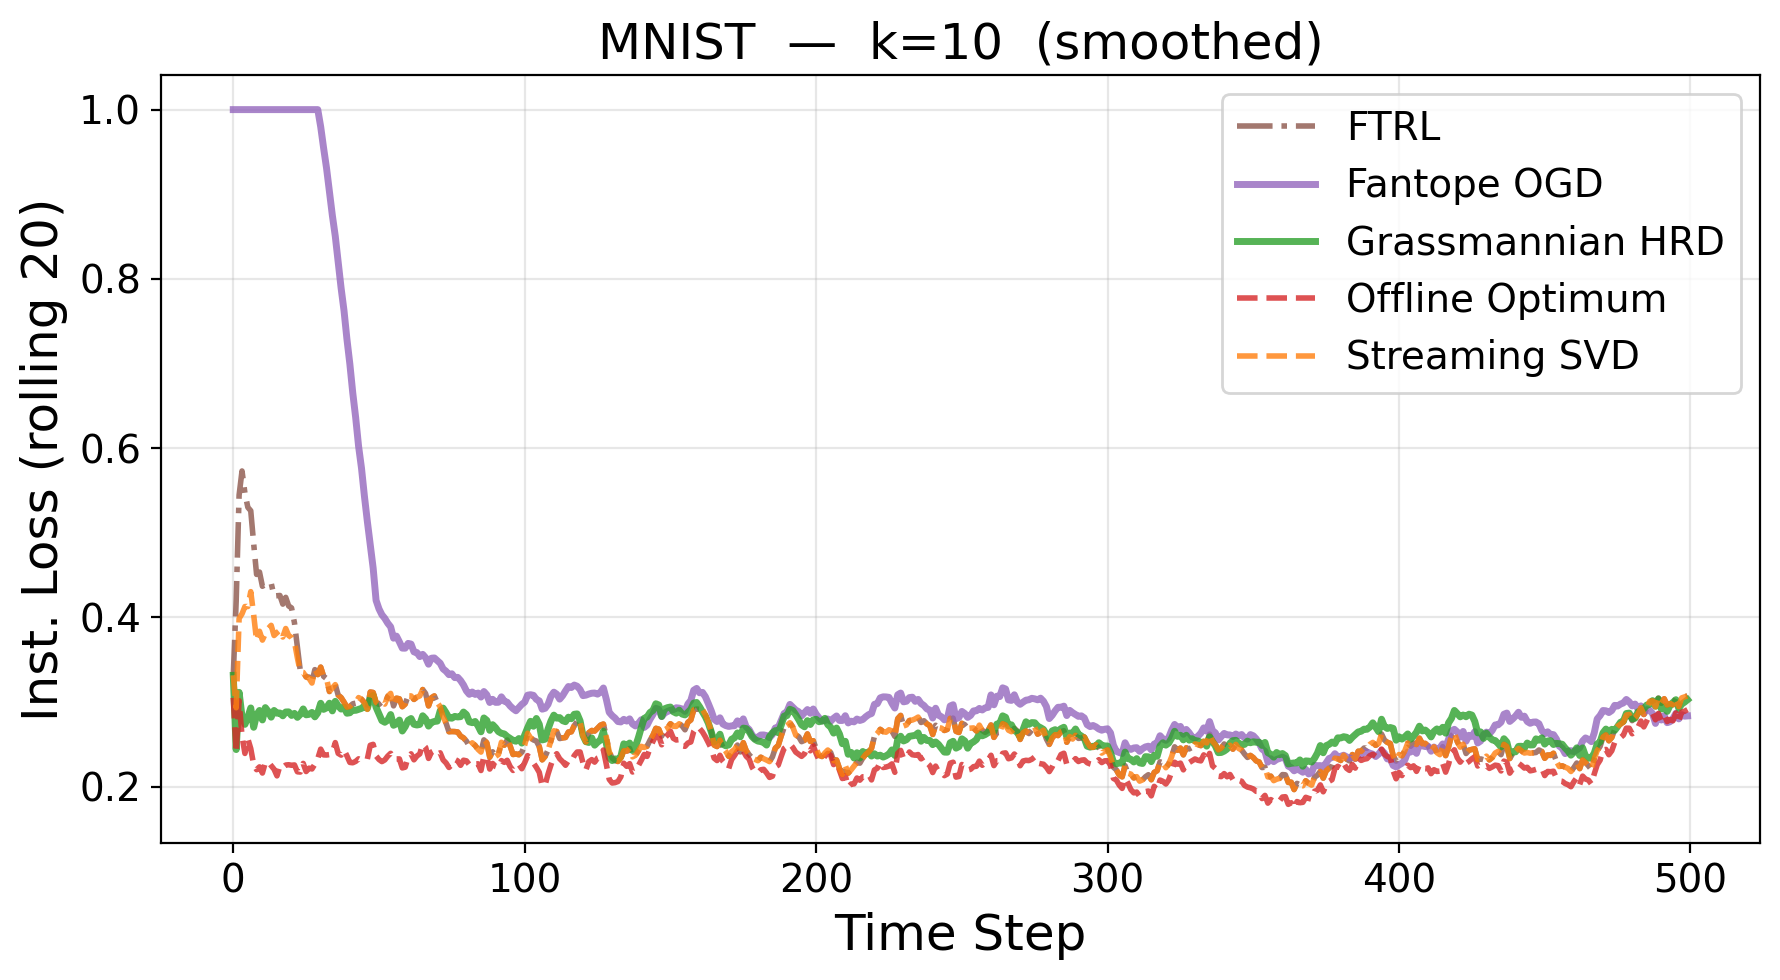
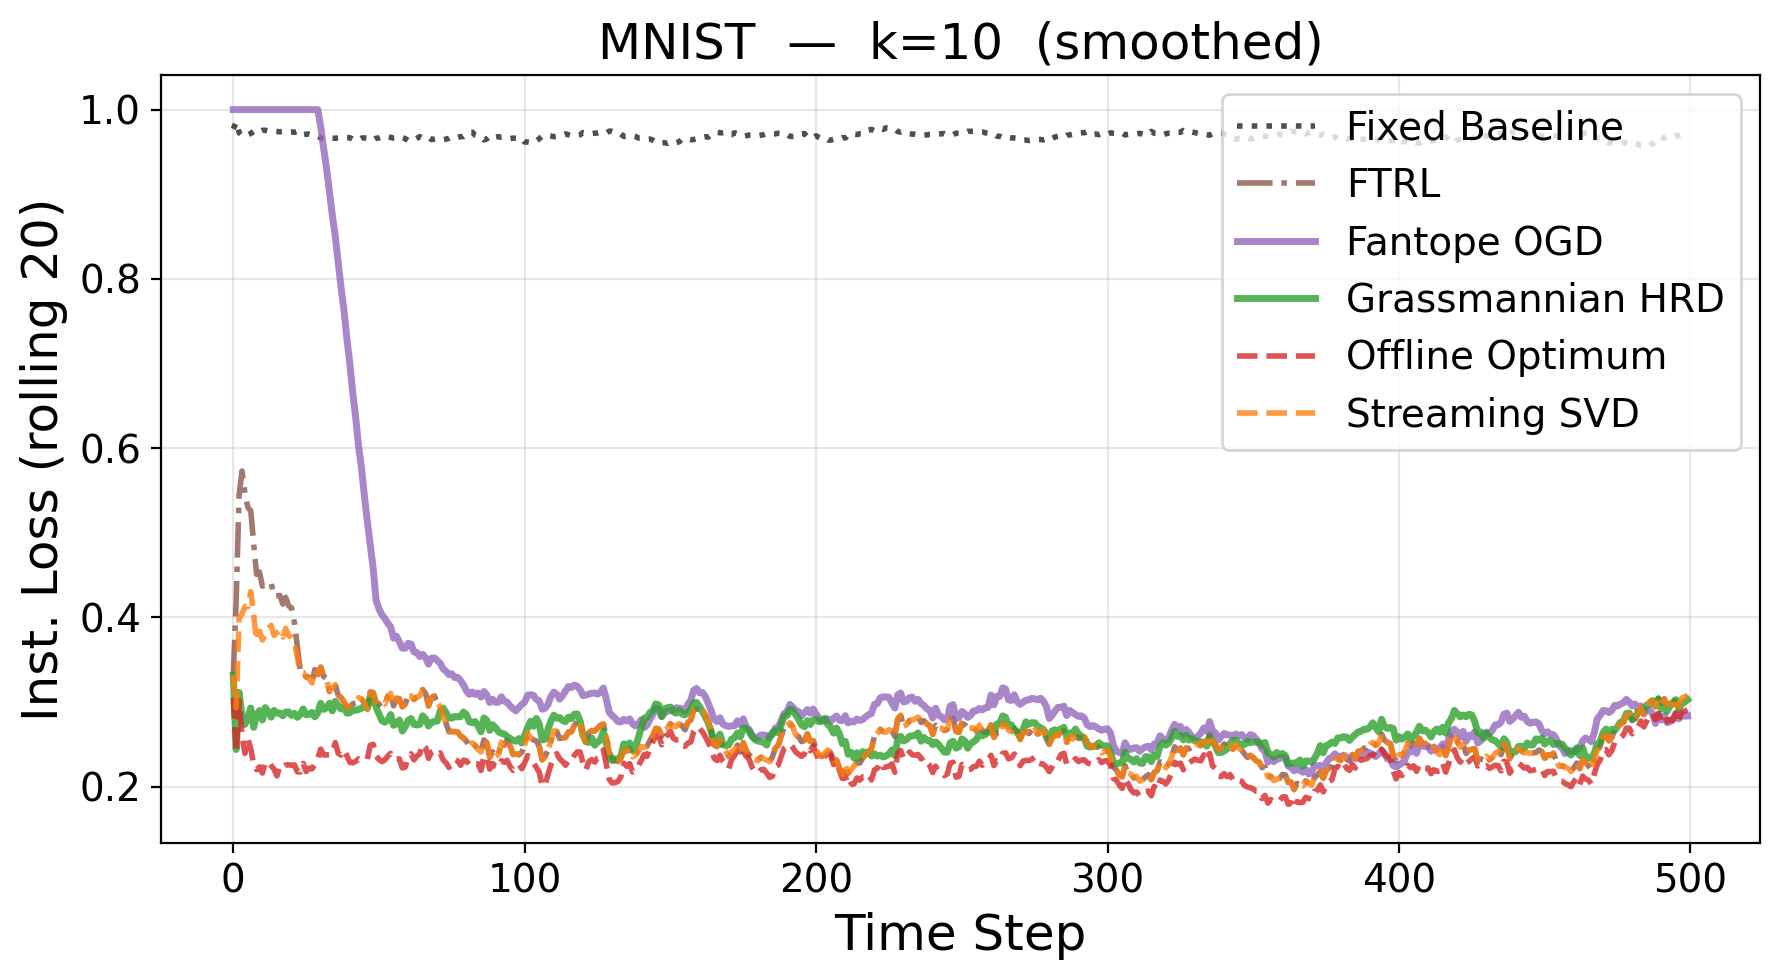
Add BadNet fixed baseline to experiments and plots

Changed region(s): [[0.6798, 0.0918, 0.9579, 0.4592], [0.6798, 0.1837, 0.7416, 0.2143], [0.9579, 0.398, 0.9888, 0.4286]]

diff --git a/New Experiments/plot_results.py b/New Experiments/plot_results.py
@@ -38,7 +38,7 @@ ALG_STYLE = {
     "OfflineOptimum":{"color": "#d62728", "lw": 2.0, "ls": "--",  "label": "Offline Optimum"},
     "StreamingSVD":  {"color": "#ff7f0e", "lw": 2.0, "ls": "--",  "label": "Streaming SVD"},
     "FTRL":          {"color": "#8c564b", "lw": 2.0, "ls": "-.",  "label": "FTRL"},
-    "BadNet":        {"color": "#7f7f7f", "lw": 1.5, "ls": ":",   "label": "Fixed Baseline"},
+    "BadNet":        {"color": "#222222", "lw": 2.0, "ls": ":",   "label": "Fixed Baseline"},
 }
 
 

diff --git a/New Experiments/run_experiment.py b/New Experiments/run_experiment.py
@@ -307,7 +307,7 @@ def run_experiments(
                 dk.setdefault("T", cfg.get("T", 1000))
                 dk.setdefault("d", cfg.get("d", 5))
             X, meta = load_dataset(ds, **dk)
-            print(f"  → {X.shape[0]} samples × {X.shape[1]} features")
+            print(f"  {X.shape[0]} samples x {X.shape[1]} features")
             loaded[ds] = (X, meta)
         except Exception as e:
             print(f"  [ERROR] Could not load {ds}: {e}")
